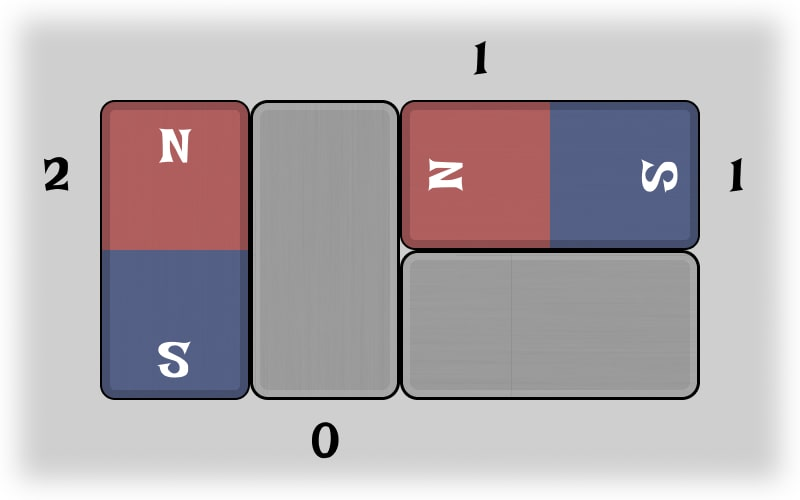
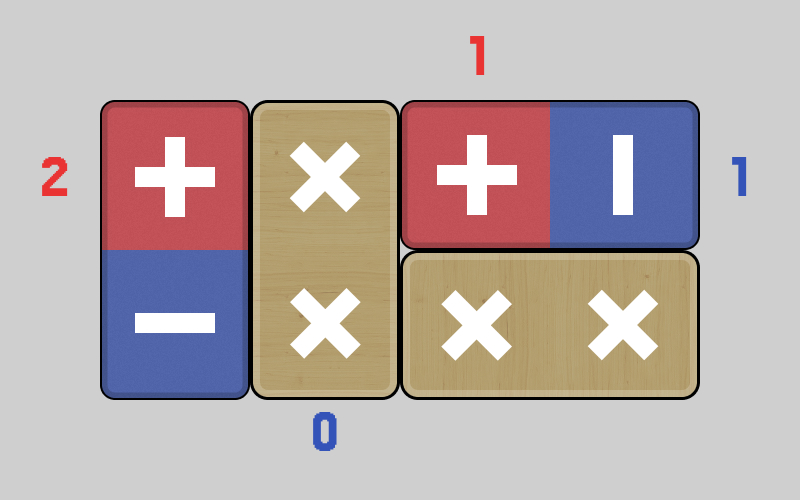
Referee is ready

diff --git a/src/main/kotlin/com/codingame/game/Referee.kt b/src/main/kotlin/com/codingame/game/Referee.kt
@@ -11,10 +11,10 @@ import com.google.inject.Inject
 private data class TestCase(
     val width: Int,
     val height: Int,
-    val topMarkers: List<Int>,
     val leftMarkers: List<Int>,
-    val bottomMarkers: List<Int>,
+    val topMarkers: List<Int>,
     val rightMarkers: List<Int>,
+    val bottomMarkers: List<Int>,
     val plan: List<String>
 )
 
@@ -35,16 +35,14 @@ class Referee : AbstractReferee() {
         testCase = TestCase(
             width = gameManager.testCaseInput[0].toInt(),
             height = gameManager.testCaseInput[1].toInt(),
-            topMarkers = gameManager.testCaseInput[2].map { it.digitToIntOrNull() ?: -1 },
-            leftMarkers = gameManager.testCaseInput[3].map { it.digitToIntOrNull() ?: -1 },
-            bottomMarkers = gameManager.testCaseInput[4].map { it.digitToIntOrNull() ?: -1 },
-            rightMarkers = gameManager.testCaseInput[5].map { it.digitToIntOrNull() ?: -1 },
+            leftMarkers = gameManager.testCaseInput[2].split(" ").map { it.toInt() },
+            topMarkers = gameManager.testCaseInput[3].split(" ").map { it.toInt() },
+            rightMarkers = gameManager.testCaseInput[4].split(" ").map { it.toInt() },
+            bottomMarkers = gameManager.testCaseInput[5].split(" ").map { it.toInt() },
             plan = gameManager.testCaseInput.drop(6)
         )
         initBoard()
-        gameManager.maxTurns =
-            testCase.topMarkers.sumOf { if (it > 0) it else 0 } +
-            testCase.bottomMarkers.sumOf { if (it > 0) it else 0 }
+        gameManager.maxTurns = (testCase.width * testCase.height) / 2
     }
 
     val playedCells = mutableSetOf<Char>()
@@ -53,27 +51,44 @@ class Referee : AbstractReferee() {
             for (line in gameManager.testCaseInput) {
                 gameManager.player.sendInputLine(line.trim())
             }
+        } else {
+            for (y in 0..<testCase.height) {
+                gameManager.player.sendInputLine((0..<testCase.width).joinToString("") { x ->
+                    gamePlan[y][x].takeIf { it != '.' }?.toString() ?: testCase.plan[y][x].toString()
+                })
+            }
         }
 
         try {
             // execution
             gameManager.player.execute()
 
-            if (gameManager.player.outputs[0].isEmpty()) { gameManager.loseGame("Empty output; 2 space separated integers x, y expected."); return }
+            if (gameManager.player.outputs[0].isEmpty()) { gameManager.loseGame("Empty output; space separated 'x', 'y' and '+/-/x' character expected."); return }
             val outputs = gameManager.player.outputs[0].split(" ")
-            if (outputs.size != 2) { gameManager.loseGame("2 space separated integers x, y expected."); return }
-            val (x, y) = runCatching { gameManager.player.outputs[0].split(" ").map { it.toInt() } }.getOrElse { gameManager.loseGame("x or y not integer; 2 space separated integers x, y expected."); return }
+            if (outputs.size != 3) { gameManager.loseGame("Space separated 'x', 'y' and '+/-/x' symbol expected."); return }
+            val (xs, ys, symbol) = gameManager.player.outputs[0].split(" ")
+            val x = xs.toIntOrNull() ?: run { gameManager.loseGame("Invalid output. X coordinate should be integer."); return }
+            val y = ys.toIntOrNull() ?: run { gameManager.loseGame("Invalid output. Y coordinate should be integer."); return }
+            if (symbol.length != 1 && symbol[0] !in listOf('+', '-', 'x')) { gameManager.loseGame("Invalid output. Symbol should be one of +/-/x."); return }
+            val s = symbol[0]
             if (x !in 0..<testCase.width || y !in 0..<testCase.height) { gameManager.loseGame("Out of bounds."); return }
             if (testCase.plan[y][x] in playedCells) { gameManager.loseGame("Position [${x}, ${y}] already taken."); return }
 
-            when {
-                magnetsPositive.contains(x to y) -> magnetsPositive[x to y]?.setAlpha(1.0)?.setScale(scale)
-                magnetsNegative.contains(x to y) -> magnetsNegative[x to y]?.setAlpha(1.0)?.setScale(scale)
-                else -> { gameManager.loseGame("You somehow crashed the game!"); return }
+            when (s) {
+                '+' -> magnetsPositive[x to y]?.setAlpha(1.0)?.setScale(scale)
+                '-' -> magnetsNegative[x to y]?.setAlpha(1.0)?.setScale(scale)
+                'x' -> magnetsNeutral[x to y]?.setAlpha(1.0)?.setScale(scale)
             }
-            playedCells += testCase.plan[y][x]
 
-            val errors = checkErrors()
+            playedCells += testCase.plan[y][x]
+            when(testCase.plan[y][x]) {
+                runCatching { testCase.plan[y][x - 1] }.getOrNull() -> playedCells += testCase.plan[y][x - 1]
+                runCatching { testCase.plan[y][x + 1] }.getOrNull() -> playedCells += testCase.plan[y][x + 1]
+                runCatching { testCase.plan[y - 1][x] }.getOrNull() -> playedCells += testCase.plan[y - 1][x]
+                runCatching { testCase.plan[y + 1][x] }.getOrNull() -> playedCells += testCase.plan[y + 1][x]
+            }
+
+            val errors = checkErrors(x, y, s)
 
             if (errors.isNotEmpty()) { gameManager.loseGame("You broke the rules!"); return }
         } catch (_: AbstractPlayer.TimeoutException) {
@@ -85,14 +100,59 @@ class Referee : AbstractReferee() {
         }
     }
 
-    fun checkErrors(): List<Unit> = emptyList()
-    fun win(): Boolean = true
+    val gamePlan by lazy { Array(testCase.height) { Array(testCase.width) { '.' } } }
+
+    sealed interface Error {
+        data class TopError(val column: Int): Error
+        data class LeftError(val row: Int): Error
+        data class BottomError(val column: Int): Error
+        data class RightError(val row: Int): Error
+    }
+
+    fun checkErrors(x: Int, y: Int, s: Char): List<Error> {
+        if (s == 'x') return emptyList()
+        val c = testCase.plan[y][x]
+        val op = if (s == '+') '-' else '+'
+        gamePlan[y][x] = s
+        when (c) {
+            runCatching { testCase.plan[y][x - 1] }.getOrNull() -> gamePlan[y][x - 1] = op
+            runCatching { testCase.plan[y][x + 1] }.getOrNull() -> gamePlan[y][x + 1] = op
+            runCatching { testCase.plan[y - 1][x] }.getOrNull() -> gamePlan[y - 1][x] = op
+            runCatching { testCase.plan[y + 1][x] }.getOrNull() -> gamePlan[y + 1][x] = op
+        }
+        val te = testCase.topMarkers.mapIndexedNotNull { id, sum ->
+            if (sum == -1) return@mapIndexedNotNull null
+            if (gamePlan.map { it[id] }.count { it == '+' } > sum) Error.TopError(id)
+            else null
+        }
+        val be = testCase.bottomMarkers.mapIndexedNotNull { id, sum ->
+            if (sum == -1) return@mapIndexedNotNull null
+            if (gamePlan.map { it[id] }.count { it == '-' } > sum) Error.BottomError(id)
+            else null
+        }
+        val le = testCase.leftMarkers.mapIndexedNotNull { id, sum ->
+            if (sum == -1) return@mapIndexedNotNull null
+            if (gamePlan[id].count { it == '+' } > sum) Error.LeftError(id)
+            else null
+        }
+        val re = testCase.rightMarkers.mapIndexedNotNull { id, sum ->
+            if (sum == -1) return@mapIndexedNotNull null
+            if (gamePlan[id].count { it == '-' } > sum) Error.RightError(id)
+            else null
+        }
+        return te + be + le + re
+    }
+
+    fun win(): Boolean {
+        return gamePlan.all { it.none { it == '.' } }
+    }
 
     private val cellSize = 150.0
     val scaling = mapOf(9 to 83 / cellSize, 7 to 107 / cellSize, 5 to 150.0 / cellSize)
     val scale by lazy { scaling[testCase.height] ?: throw IllegalStateException() }
     val magnetsPositive = mutableMapOf<Pair<Int, Int>, Sprite>()
     val magnetsNegative = mutableMapOf<Pair<Int, Int>, Sprite>()
+    val magnetsNeutral = mutableMapOf<Pair<Int, Int>, Sprite>()
 
     private fun initBoard() {
         graphic.createSprite().setImage("background.jpg")
@@ -113,13 +173,15 @@ class Referee : AbstractReferee() {
                 when (actual) {
                     targetV -> {
                         cells.add(graphic.createSprite().setImage("magnet_frame.png").setX((scaledCellSize * x).toInt()).setY((scaledCellSize * y).toInt()).setScale(scale))
-                        cells.add(graphic.createSprite().setImage("magnet.png").setAnchor(0.5).setX((scaledCellSize * (x + 0.5)).toInt()).setY((scaledCellSize * (y + 1)).toInt()).setScale(0.2).setAlpha(0.0).also { magnetsPositive[x to y] = it })
-                        cells.add(graphic.createSprite().setImage("magnet.png").setAnchor(0.5).setX((scaledCellSize * (x + 0.5)).toInt()).setY((scaledCellSize * (y + 1)).toInt()).setScale(0.2).setAlpha(0.0).setRotation(Math.toRadians(180.0)).also { magnetsNegative[x to y + 1] = it })
+                        cells.add(graphic.createSprite().setImage("magnet.png").setAnchor(0.5).setX((scaledCellSize * (x + 0.5)).toInt()).setY((scaledCellSize * (y + 1)).toInt()).setScale(0.2).setAlpha(0.0).also { magnetsPositive[x to y] = it; magnetsNegative[x to y + 1] = it })
+                        cells.add(graphic.createSprite().setImage("magnet.png").setAnchor(0.5).setX((scaledCellSize * (x + 0.5)).toInt()).setY((scaledCellSize * (y + 1)).toInt()).setScale(0.2).setAlpha(0.0).setRotation(Math.toRadians(180.0)).also { magnetsNegative[x to y] = it; magnetsPositive[x to y + 1] = it })
+                        cells.add(graphic.createSprite().setImage("wood.png").setAnchor(0.5).setX((scaledCellSize * (x + 0.5)).toInt()).setY((scaledCellSize * (y + 1)).toInt()).setScale(0.2).setAlpha(0.0).also { magnetsNeutral[x to y] = it; magnetsNeutral[x to y + 1] = it })
                     }
                     targetH -> {
                         cells.add(graphic.createSprite().setImage("magnet_frame.png").setX((scaledCellSize * (x + 2)).toInt()).setY((scaledCellSize * y).toInt()).setScale(scale).setRotation(Math.toRadians(90.0)))
-                        cells.add(graphic.createSprite().setImage("magnet.png").setAnchor(0.5).setX((scaledCellSize * (x + 1)).toInt()).setY((scaledCellSize * (y + 0.5)).toInt()).setScale(0.2).setAlpha(0.0).setRotation(Math.toRadians(270.0)).also { magnetsPositive[x to y] = it })
-                        cells.add(graphic.createSprite().setImage("magnet.png").setAnchor(0.5).setX((scaledCellSize * (x + 1)).toInt()).setY((scaledCellSize * (y + 0.5)).toInt()).setScale(0.2).setAlpha(0.0).setRotation(Math.toRadians(90.0)).also { magnetsNegative[x + 1 to y] = it })
+                        cells.add(graphic.createSprite().setImage("magnet.png").setAnchor(0.5).setX((scaledCellSize * (x + 1)).toInt()).setY((scaledCellSize * (y + 0.5)).toInt()).setScale(0.2).setAlpha(0.0).setRotation(Math.toRadians(270.0)).also { magnetsPositive[x to y] = it; magnetsNegative[x + 1 to y] = it })
+                        cells.add(graphic.createSprite().setImage("magnet.png").setAnchor(0.5).setX((scaledCellSize * (x + 1)).toInt()).setY((scaledCellSize * (y + 0.5)).toInt()).setScale(0.2).setAlpha(0.0).setRotation(Math.toRadians(90.0)).also { magnetsNegative[x to y] = it; magnetsPositive[x + 1 to y] = it })
+                        cells.add(graphic.createSprite().setImage("wood.png").setAnchor(0.5).setX((scaledCellSize * (x + 1)).toInt()).setY((scaledCellSize * (y + 0.5)).toInt()).setScale(0.2).setAlpha(0.0).setRotation(Math.toRadians(270.0)).also { magnetsNeutral[x to y] = it; magnetsNeutral[x + 1 to y] = it })
                     }
                 }
             }

diff --git a/config/statement_en.html b/config/statement_en.html
@@ -1,55 +1,34 @@
 <div id="statement_back" class="statement_back" style="display:none"></div>
 <div class="statement-body">
-    <!-- GOAL -->
-
     <div class="statement-section statement-goal">
-        <h1>
-            <span class="icon icon-goal">&nbsp;</span>
-            <span>The Goal</span>
-        </h1>
+        <h1> <span class="icon icon-goal">&nbsp;</span> <span>The Goal</span> </h1>
         <div class="statement-goal-content">
-            <p>You are given a <strong>grid</strong> representing a Battleships Solitaire puzzle. Your objective is to reconstruct the hidden <strong>fleet</strong> of ships by filling the grid according to the given clues.</p>
+            <p>You are given a <strong>board</strong> where you must place <strong>magnets</strong> so that all rules are satisfied and the final configuration is <strong>stable</strong> (identical poles must not touch each other).</p>
         </div>
     </div>
-
     <div class="statement-section statement-rules">
-        <h1>
-            <span class="icon icon-rules">&nbsp;</span>
-            <span>Rules</span>
-        </h1>
+        <h1> <span class="icon icon-rules">&nbsp;</span> <span>Rules</span> </h1>
         <div>
             <div class="statement-rules-content">
-                <p>A complete <strong>fleet of ships</strong> must be placed on the grid. The exact composition of the fleet (ship sizes and counts) is provided in the input and may vary between puzzles.</p>
+                <p> Each magnet consists of two parts: a blue north pole (<const>-</const>) and a red south pole (<const>+</const>). You have an unlimited supply of such magnets. Your task is to place the required magnets on the board so that the following conditions are met:
+                    <ul>
+                        <li>Magnets may only be placed on predefined cells.</li>
+                        <li>The numbers on the left side of the board (<var>leftHint</var>) indicate the exact number of
+                            <const>+</const> poles that must appear in each row.</li>
+                        <li>The numbers above the board (<var>topHint</var>) indicate the exact number of
+                            <const>+</const> poles that must appear in each column.</li>
+                        <li>The numbers on the right side of the board (<var>rightHint</var>) indicate the exact number of
+                            <const>-</const> poles that must appear in each row.</li>
+                        <li>The numbers below the board (<var>bottomHint</var>) indicate the exact number of
+                            <const>-</const> poles that must appear in each column.</li>
+                        <li>Not all cells need to contain magnets; some might be occupied by wooden blocks marked with <const>x</const>.</li>
+                    </ul> For a clearer understanding, see the example below: </p>
 
-                <ul>
-                    <li>Ships are straight and occupy consecutive cells either horizontally or vertically.</li>
-                    <li>Ships cannot overlap or touch each other, not even diagonally.</li>
-                    <li>Some cells may already be revealed as <strong>water</strong> or as part of a ship.</li>
-                    <li>Numbers shown next to each row and column indicate how many ship cells must appear in that line.</li>
-                </ul>
-
-                <p>The goal is to place all ships so that every constraint is met and the final configuration matches the provided clues.</p>
-
-<div style="text-align:center;margin:15px">
-    <img src="https://cdn-games.codingame.com/community/3996809-1758310741063/6fb72a9c8ec6d4cdf117a9e527d81423fc3bc2a1354359eeebe6f0b6b6fbe33f.jpg"
-         style="width:400px;max-width:100%">
-    <div style="margin:auto;width:400px;max-width:100%">
-        <em>Solution example</em></div>
-</div>
-
-<p>
-    In the example above, you can see:
-    <ul>
-        <li>A single-cell ship (blue) occupies only one cell (<const>o</const>).</li>
-        <li>All ships of size <const>2</const> or more (yellow and green) have a bow cell (<const>^</const>, <const>&lt;</const>) and a stern cell (<const>v</const>, <const>&gt;</const>), with any middle segments (<const>#</const>) filling the space between.</li>
-        <li>A water cell (<const>x</const>) cannot contain any part of a ship.</li>
-        <li>An unknown cell (<const>.</const>) may either contain part of a ship or water.</li>
-        <li>The solution is invalid because 2 rows and 2 columns are not satisfied (red text).</li>
-        <li>The solution is also invalid because the red ship is diagonally adjacent to the green ship.</li>
-    </ul>
-</p>
-
-
+                <div style="text-align:center;margin:15px">
+                    <img src="https://cdn-games.codingame.com/community/3996809-1759184451664/c2fde3921cb94cc7037ef014b51c15420113940b105cbb76f78d6ae4107d5e44.jpg" style="width:400px;max-width:100%" alt="Example solution">
+                    <div style="margin:auto;width:400px;max-width:100%">
+                        <em>Example of a valid solution</em></div>
+                </div>
             </div>
         </div>
     </div>
@@ -61,52 +40,64 @@
             <span>Additional Info</span>
         </h1>
         <div class="statement-examples-text">
-            - Press the gear icon on the viewer to access extra display options<br/> - This puzzle is based on a logical <a href="https://www.chiark.greenend.org.uk/~sgtatham/puzzles/js/magnets.html">game named Magnets by Simon Tatham</a><br> - Source code on <a href="https://github.com/VizGhar/CG-Magnets">my GitHub</a>
+            - Press the gear icon in the viewer to access extra display options<br/>
+            - This puzzle is based on the logic <a href="https://www.chiark.greenend.org.uk/~sgtatham/puzzles/js/magnets.html">game Magnets by Simon Tatham</a><br/>
+            - Source code available on <a href="https://github.com/VizGhar/CG-Magnets">GitHub</a>
         </div>
     </div>
 
     <!-- PROTOCOL -->
     <div class="statement-section statement-protocol">
-    <h1>
-        <span class="icon icon-protocol">&nbsp;</span>
-        <span>Game Input</span>
-    </h1>
+        <h1>
+            <span class="icon icon-protocol">&nbsp;</span>
+            <span>Game Input</span>
+        </h1>
+        <div class="title">Initial input</div>
+        <div class="blk">
+            <div class="text">
+                <p><span class="statement-lineno">Line 1:</span> single integer <var>width</var>, the width of the board.</p>
+                <p><span class="statement-lineno">Line 2:</span> single integer <var>height</var>, the height of the board.</p>
+                <p><span class="statement-lineno">Line 3:</span> <var>height</var> space-separated integers <var>leftHint</var> (number of <const>+</const> poles in row <var>i</var>).</p>
+                <p><span class="statement-lineno">Line 4:</span> <var>width</var> space-separated integers <var>topHint</var> (number of <const>+</const> poles in column <var>i</var>).</p>
+                <p><span class="statement-lineno">Line 5:</span> <var>height</var> space-separated integers <var>rightHint</var> (number of <const>-</const> poles in row <var>i</var>).</p>
+                <p><span class="statement-lineno">Line 6:</span> <var>width</var> space-separated integers <var>bottomHint</var> (number of <const>-</const> poles in column <var>i</var>).</p>
+                <p><em>Note:</em> You will receive <const>-1</const> if there is no hint specified for given row or column.</p>
+            </div>
+        </div>
+        <div class="title">Turn input</div>
+        <div class="blk">
+            <div class="text">
+                <p><span class="statement-lineno">Next <var>height</var> lines:</span> each line contains a string of <var>width</var> characters:<br/>
+                    <ul>
+                        <li><const>+</const> → cell occupied by the south pole of a magnet.</li>
+                        <li><const>-</const> → cell occupied by the north pole of a magnet.</li>
+                        <li><const>x</const> → cell occupied by wooden block.</li>
+                        <li>Letter (<const>A–Z, a–z</const>) marking predefined magnet cell pairs. Identical letters mark two adjacent cells that belong to the same magnet.</li>
+                    </ul>
+                </p>
+            </div>
+        </div>
 
-    <div class="blk">
-        <div class="text">
-            <p><span class="statement-lineno">Line 1:</span> single integer <var>width</var> of the board.</p>
-            <p><span class="statement-lineno">Line 2:</span> single integer <var>height</var> of the board.</p>
-            <p><span class="statement-lineno">Line 3:</span> single string <var>topHints</var> of length <var>width</var>.</p>
-            <p><span class="statement-lineno">Line 4:</span> single string <var>leftHints</var> of length <var>height</var>.</p>
-            <p><span class="statement-lineno">Line 5:</span> single string <var>bottomHints</var> of length <var>width</var>.</p>
-            <p><span class="statement-lineno">Line 6:</span> single string <var>rightHints</var> of length <var>height</var>.</p>
-            <p><span class="statement-lineno">Next <var>height</var> lines:</span> each line contains <var>width</var> characters representing connected pairs of cells.</p>
+        <!-- Protocol block -->
+        <div class="blk">
+            <div class="title">Turn output</div>
+            <div class="text">
+                <p><span class="statement-lineno">Single line:</span> three space-separated values - integers <var>x</var> and <var>y</var> and character <var>symbol</var> (one of <const>+</const>, <const>-</const>, <const>x</const>).<br/>
+                This output will place <var>symbol</var> at [<var>x</var>, <var>y</var>], the coordinates of a cell (the matching cell is placed automatically).</p>
+            </div>
+        </div>
+
+        <!-- Protocol block -->
+        <div class="blk">
+            <div class="title">Constraints</div>
+            <div class="text">
+                <const>6</const> ≤ <var>width</var> ≤ <const>10</const><br/>
+                <const>5</const> ≤ <var>height</var> ≤ <const>9</const><br/>
+                <br/>Allotted response time to output in first turn is ≤ <const>5s</const><br/>Allotted response time to output in other turns is ≤ <const>50ms</const>
+
+            </div>
         </div>
     </div>
 
-    <!-- Protocol block -->
-    <div class="blk">
-        <div class="title">Turn output</div>
-        <div class="text">
-            <p><span class="statement-lineno"><var>size</var> lines of <var>size</var> characters:</span> the final resolved board. Each character must be one of: 
-            <ul>
-                <li><const>x</const> : water cell.</li>
-                <li><const>o</const> : ship cell (any part of any ship, regardless of its size or shape).</li>
-            </ul>
-            </p>
-        </div>
-    </div>
-
-    <!-- Protocol block -->
-    <div class="blk">
-        <div class="title">Constraints</div>
-        <div class="text">
-            <const>6</const> ≤ <var>width</var> ≤ <const>10</const><br>
-            <const>5</const> ≤ <var>height</var> ≤ <const>9</const><br>
-            <br>Allotted response time to output the solution is ≤ <const>5s</const>
-        </div>
-    </div>
 </div>
-
-    </div>
 </div>

diff --git a/src/main/resources/view/demo.js b/src/main/resources/view/demo.js
@@ -1,1 +1,2 @@
-export const demo = null;
+export const demo = 
+{"views":["KEY_FRAME 0\n{\"global\":{\"entitymodule\":{\"width\":1920,\"height\":1080}},\"frame\":{\"entitymodule\":\"CS;G;G;S;S;S;S;S;S;S;S;S;S;S;S;S;S;S;S;S;S;S;S;S;S;S;S;S;S;S;S;S;S;S;S;S;S;S;S;S;S;S;S;S;S;S;S;S;S;S;S;S;S;S;S;S;S;S;S;S;S;S;S;S;S;S;S;S;S;S;S;S;S;S;S;S;S;S;S;S;S;S;S;S;S;S;S\\nU69 1 i 2.png ay 1 v 1 ax 0.5 x 825 y -20;46 1 sx 0.2 i magnet.png ay 0.5 sy 0.2 v 1 ax 0.5 a 0 r 90 x 450 y 525;59 1 sx 0.2 i wood.png ay 0.5 sy 0.2 v 1 ax 0.5 a 0 r 270 x 450 y 675;75 1 i 0.png ay 0 v 1 ax 0.5 x 825 y 770;23 1 sx 0.2 i wood.png ay 0.5 sy 0.2 v 1 ax 0.5 a 0 x 225 y 300;1 1 i background.jpg v 1;49 1 sx 0.2 i magnet.png ay 0.5 sy 0.2 v 1 ax 0.5 a 0 r 270 x 750 y 525;58 1 sx 0.2 i magnet.png ay 0.5 sy 0.2 v 1 ax 0.5 a 0 r 90 x 450 y 675;44 1 sx 1 i magnet_frame.png sy 1 v 1 r 90 x 600 y 450;32 1 sx 1 i magnet_frame.png sy 1 v 1 x 600 y 150;66 1 i 1.png ay 1 v 1 ax 0.5 x 375 y -20;16 1 sx 1 i magnet_frame.png sy 1 v 1 x 0 y 150;74 1 i 2.png ay 0 v 1 ax 0.5 x 675 y 770;5 1 sx 0.2 i magnet.png ay 0.5 sy 0.2 v 1 ax 0.5 a 0 r 270 x 150 y 75;7 1 sx 0.2 i wood.png ay 0.5 sy 0.2 v 1 ax 0.5 a 0 r 270 x 150 y 75;57 1 sx 0.2 i magnet.png ay 0.5 sy 0.2 v 1 ax 0.5 a 0 r 270 x 450 y 675;28 1 sx 1 i magnet_frame.png sy 1 v 1 x 450 y 150;50 1 sx 0.2 i magnet.png ay 0.5 sy 0.2 v 1 ax 0.5 a 0 r 90 x 750 y 525;31 1 sx 0.2 i wood.png ay 0.5 sy 0.2 v 1 ax 0.5 a 0 x 525 y 300;40 1 sx 1 i magnet_frame.png sy 1 v 1 r 90 x 300 y 450;53 1 sx 0.2 i magnet.png ay 0.5 sy 0.2 v 1 ax 0.5 a 0 r 270 x 150 y 675;15 1 sx 0.2 i wood.png ay 0.5 sy 0.2 v 1 ax 0.5 a 0 r 270 x 750 y 75;77 1 i 2.png ay 0.5 v 1 ax 1 x -20 y 225;36 1 sx 1 i magnet_frame.png sy 1 v 1 x 750 y 150;65 1 i 2.png ay 1 v 1 ax 0.5 x 225 y -20;29 1 sx 0.2 i magnet.png ay 0.5 sy 0.2 v 1 ax 0.5 a 0 x 525 y 300;82 1 i 2.png ay 0.5 v 1 ax 0 x 920 y 225;63 1 sx 0.2 i wood.png ay 0.5 sy 0.2 v 1 ax 0.5 a 0 r 270 x 750 y 675;12 1 sx 1 i magnet_frame.png sy 1 v 1 r 90 x 900 y 0;56 1 sx 1 i magnet_frame.png sy 1 v 1 r 90 x 600 y 600;26 1 sx 0.2 i magnet.png ay 0.5 sy 0.2 v 1 ax 0.5 a 0 r 180 x 375 y 300;34 1 sx 0.2 i magnet.png ay 0.5 sy 0.2 v 1 ax 0.5 a 0 r 180 x 675 y 300;11 1 sx 0.2 i wood.png ay 0.5 sy 0.2 v 1 ax 0.5 a 0 r 270 x 450 y 75;87 1 i -.png ay 0 v 1 ax 0 x 920 y 770;22 1 sx 0.2 i magnet.png ay 0.5 sy 0.2 v 1 ax 0.5 a 0 r 180 x 225 y 300;70 1 i 2.png ay 0 v 1 ax 0.5 x 75 y 770;48 1 sx 1 i magnet_frame.png sy 1 v 1 r 90 x 900 y 450;84 1 i 2.png ay 0.5 v 1 ax 0 x 920 y 525;6 1 sx 0.2 i magnet.png ay 0.5 sy 0.2 v 1 ax 0.5 a 0 r 90 x 150 y 75;83 1 i 2.png ay 0.5 v 1 ax 0 x 920 y 375;2 1 x 410 y 65 v 1 ch 3;24 1 sx 1 i magnet_frame.png sy 1 v 1 x 300 y 150;73 1 i 1.png ay 0 v 1 ax 0.5 x 525 y 770;8 1 sx 1 i magnet_frame.png sy 1 v 1 r 90 x 600 y 0;25 1 sx 0.2 i magnet.png ay 0.5 sy 0.2 v 1 ax 0.5 a 0 x 375 y 300;47 1 sx 0.2 i wood.png ay 0.5 sy 0.2 v 1 ax 0.5 a 0 r 270 x 450 y 525;27 1 sx 0.2 i wood.png ay 0.5 sy 0.2 v 1 ax 0.5 a 0 x 375 y 300;55 1 sx 0.2 i wood.png ay 0.5 sy 0.2 v 1 ax 0.5 a 0 r 270 x 150 y 675;35 1 sx 0.2 i wood.png ay 0.5 sy 0.2 v 1 ax 0.5 a 0 x 675 y 300;39 1 sx 0.2 i wood.png ay 0.5 sy 0.2 v 1 ax 0.5 a 0 x 825 y 300;19 1 sx 0.2 i wood.png ay 0.5 sy 0.2 v 1 ax 0.5 a 0 x 75 y 300;30 1 sx 0.2 i magnet.png ay 0.5 sy 0.2 v 1 ax 0.5 a 0 r 180 x 525 y 300;43 1 sx 0.2 i wood.png ay 0.5 sy 0.2 v 1 ax 0.5 a 0 r 270 x 150 y 525;45 1 sx 0.2 i magnet.png ay 0.5 sy 0.2 v 1 ax 0.5 a 0 r 270 x 450 y 525;62 1 sx 0.2 i magnet.png ay 0.5 sy 0.2 v 1 ax 0.5 a 0 r 90 x 750 y 675;64 1 i 2.png ay 1 v 1 ax 0.5 x 75 y -20;38 1 sx 0.2 i magnet.png ay 0.5 sy 0.2 v 1 ax 0.5 a 0 r 180 x 825 y 300;41 1 sx 0.2 i magnet.png ay 0.5 sy 0.2 v 1 ax 0.5 a 0 r 270 x 150 y 525;79 1 i 2.png ay 0.5 v 1 ax 1 x -20 y 525;3 1 x 100 y 100 v 1 ch 69,46,59,75,23,49,58,44,32,66,16,74,5,7,57,28,50,31,40,53,15,77,36,65,29,82,63,12,56,26,34,11,87,22,70,48,84,6,83,24,73,8,25,47,27,55,35,39,19,30,43,45,62,64,38,41,79,67,33,76,85,20,78,14,54,72,4,80,86,52,10,60,9,42,81,37,17,68,13,61,51,71,18,21;67 1 i 3.png ay 1 v 1 ax 0.5 x 525 y -20;33 1 sx 0.2 i magnet.png ay 0.5 sy 0.2 v 1 ax 0.5 a 0 x 675 y 300;76 1 i 3.png ay 0.5 v 1 ax 1 x -20 y 75;85 1 i 1.png ay 0.5 v 1 ax 0 x 920 y 675;20 1 sx 1 i magnet_frame.png sy 1 v 1 x 150 y 150;78 1 i 2.png ay 0.5 v 1 ax 1 x -20 y 375;14 1 sx 0.2 i magnet.png ay 0.5 sy 0.2 v 1 ax 0.5 a 0 r 90 x 750 y 75;54 1 sx 0.2 i magnet.png ay 0.5 sy 0.2 v 1 ax 0.5 a 0 r 90 x 150 y 675;72 1 i 3.png ay 0 v 1 ax 0.5 x 375 y 770;4 1 sx 1 i magnet_frame.png sy 1 v 1 r 90 x 300 y 0;80 1 i 1.png ay 0.5 v 1 ax 1 x -20 y 675;86 1 i +.png ay 1 v 1 ax 1 x -20 y -20;52 1 sx 1 i magnet_frame.png sy 1 v 1 r 90 x 300 y 600;10 1 sx 0.2 i magnet.png ay 0.5 sy 0.2 v 1 ax 0.5 a 0 r 90 x 450 y 75;60 1 sx 1 i magnet_frame.png sy 1 v 1 r 90 x 900 y 600;9 1 sx 0.2 i magnet.png ay 0.5 sy 0.2 v 1 ax 0.5 a 0 r 270 x 450 y 75;42 1 sx 0.2 i magnet.png ay 0.5 sy 0.2 v 1 ax 0.5 a 0 r 90 x 150 y 525;81 1 i 3.png ay 0.5 v 1 ax 0 x 920 y 75;37 1 sx 0.2 i magnet.png ay 0.5 sy 0.2 v 1 ax 0.5 a 0 x 825 y 300;17 1 sx 0.2 i magnet.png ay 0.5 sy 0.2 v 1 ax 0.5 a 0 x 75 y 300;68 1 i 0.png ay 1 v 1 ax 0.5 x 675 y -20;13 1 sx 0.2 i magnet.png ay 0.5 sy 0.2 v 1 ax 0.5 a 0 r 270 x 750 y 75;61 1 sx 0.2 i magnet.png ay 0.5 sy 0.2 v 1 ax 0.5 a 0 r 270 x 750 y 675;51 1 sx 0.2 i wood.png ay 0.5 sy 0.2 v 1 ax 0.5 a 0 r 270 x 750 y 525;71 1 i 2.png ay 0 v 1 ax 0.5 x 225 y 770;18 1 sx 0.2 i magnet.png ay 0.5 sy 0.2 v 1 ax 0.5 a 0 r 180 x 75 y 300;21 1 sx 0.2 i magnet.png ay 0.5 sy 0.2 v 1 ax 0.5 a 0 x 225 y 300\"}}\n","KEY_FRAME 1\n{\"entitymodule\":\"U6 1 sx 1 sy 1 a 1\"}\n","KEY_FRAME 2\n{\"entitymodule\":\"U14 1 sx 1 sy 1 a 1\"}\n","KEY_FRAME 3\n{\"entitymodule\":\"U50 1 sx 1 sy 1 a 1\"}\n","KEY_FRAME 4\n{\"entitymodule\":\"U58 1 sx 1 sy 1 a 1\"}\n","KEY_FRAME 5\n{\"entitymodule\":\"U55 1 sx 1 sy 1 a 1\"}\n","KEY_FRAME 6\n{\"entitymodule\":\"U25 1 sx 1 sy 1 a 1\"}\n","KEY_FRAME 7\n{\"entitymodule\":\"U35 1 sx 1 sy 1 a 1\"}\n","KEY_FRAME 8\n{\"entitymodule\":\"U39 1 sx 1 sy 1 a 1\"}\n","KEY_FRAME 9\n{\"entitymodule\":\"U63 1 sx 1 sy 1 a 1\"}\n","KEY_FRAME 10\n{\"entitymodule\":\"U41 1 sx 1 sy 1 a 1\"}\n","KEY_FRAME 11\n{\"entitymodule\":\"U22 1 sx 1 sy 1 a 1\"}\n","KEY_FRAME 12\n{\"entitymodule\":\"U47 1 sx 1 sy 1 a 1\"}\n","KEY_FRAME 13\n{\"entitymodule\":\"U10 1 sx 1 sy 1 a 1\"}\n","KEY_FRAME 14\n{\"entitymodule\":\"U30 1 sx 1 sy 1 a 1\"}\n","KEY_FRAME 15\n{\"entitymodule\":\"U17 1 sx 1 sy 1 a 1\"}\n"],"agents":[{"index":0,"name":"Player 0","avatar":"https://static.codingame.com/servlet/fileservlet?id=16085734516701&format=viewer_avatar","agentId":0}]};

diff --git a/src/test/java/TestPlayer.java b/src/test/java/TestPlayer.java
@@ -1,8 +1,19 @@
 public class TestPlayer {
     public static void main(String[] args) {
-        System.out.println("0 0");
-        System.out.println("1 1");
-        System.out.println("2 1");
-        System.out.println("0 3");
+        System.out.println("0 0 -");
+        System.out.println("5 0 +");
+        System.out.println("5 3 +");
+        System.out.println("3 4 +");
+        System.out.println("0 4 x");
+        System.out.println("2 1 +");
+        System.out.println("4 1 x");
+        System.out.println("5 2 x");
+        System.out.println("4 4 x");
+        System.out.println("0 3 +");
+        System.out.println("1 2 +");
+        System.out.println("2 3 x");
+        System.out.println("3 0 +");
+        System.out.println("3 2 +");
+        System.out.println("0 1 +");
     }
 }
